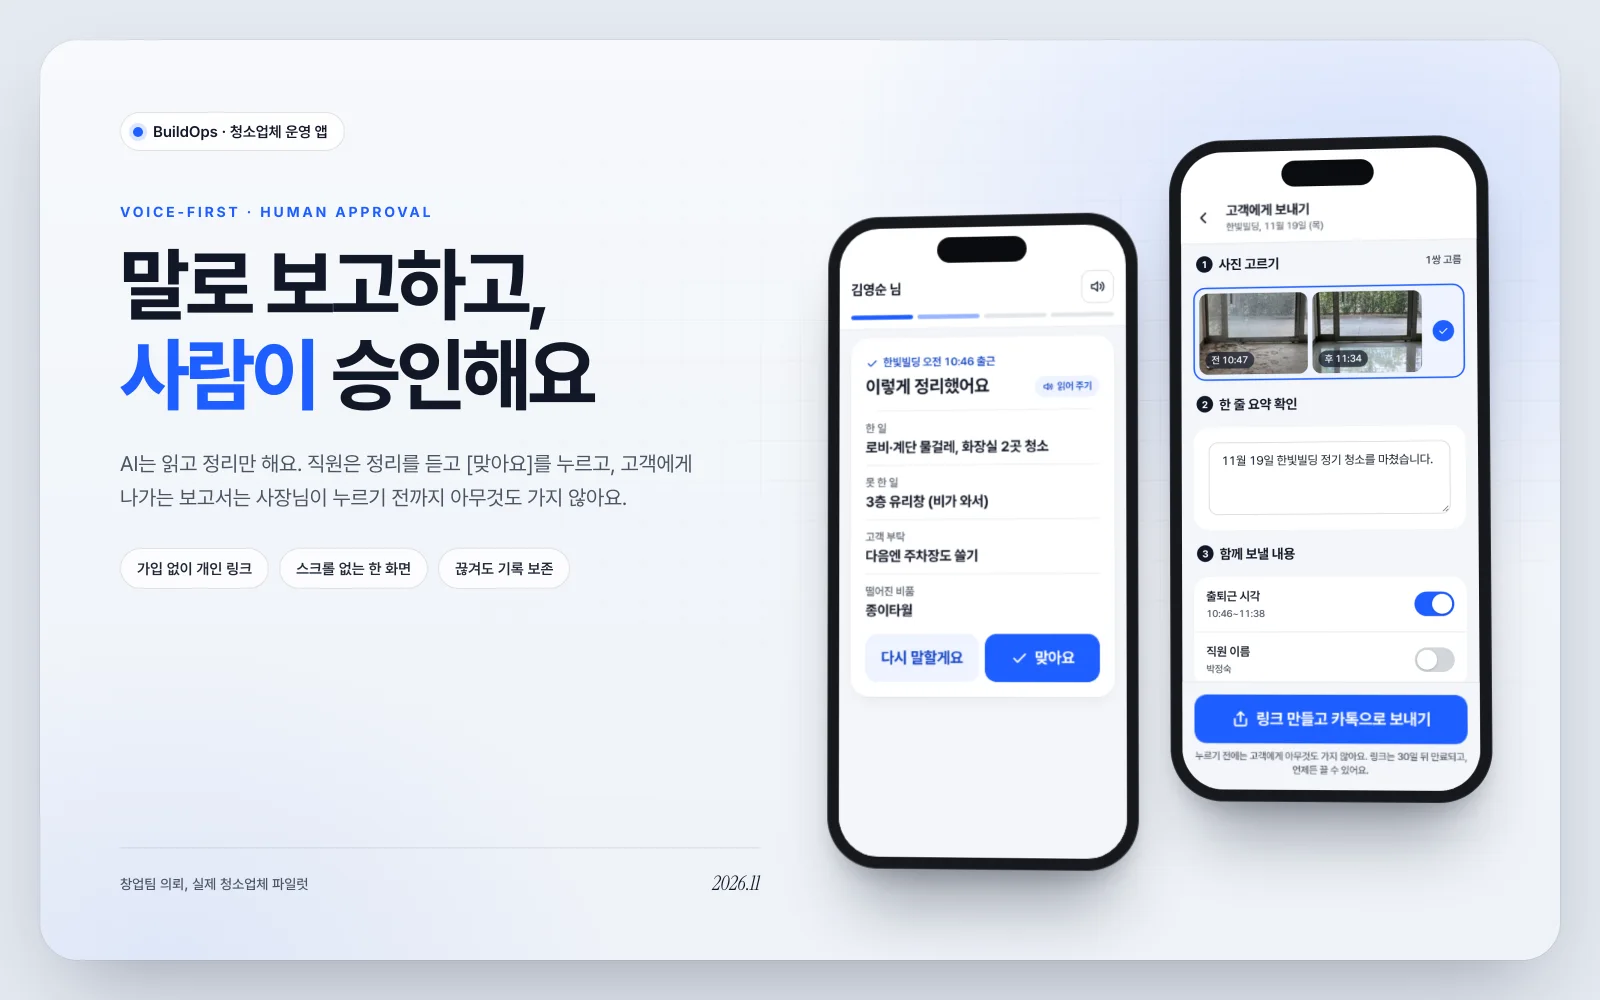
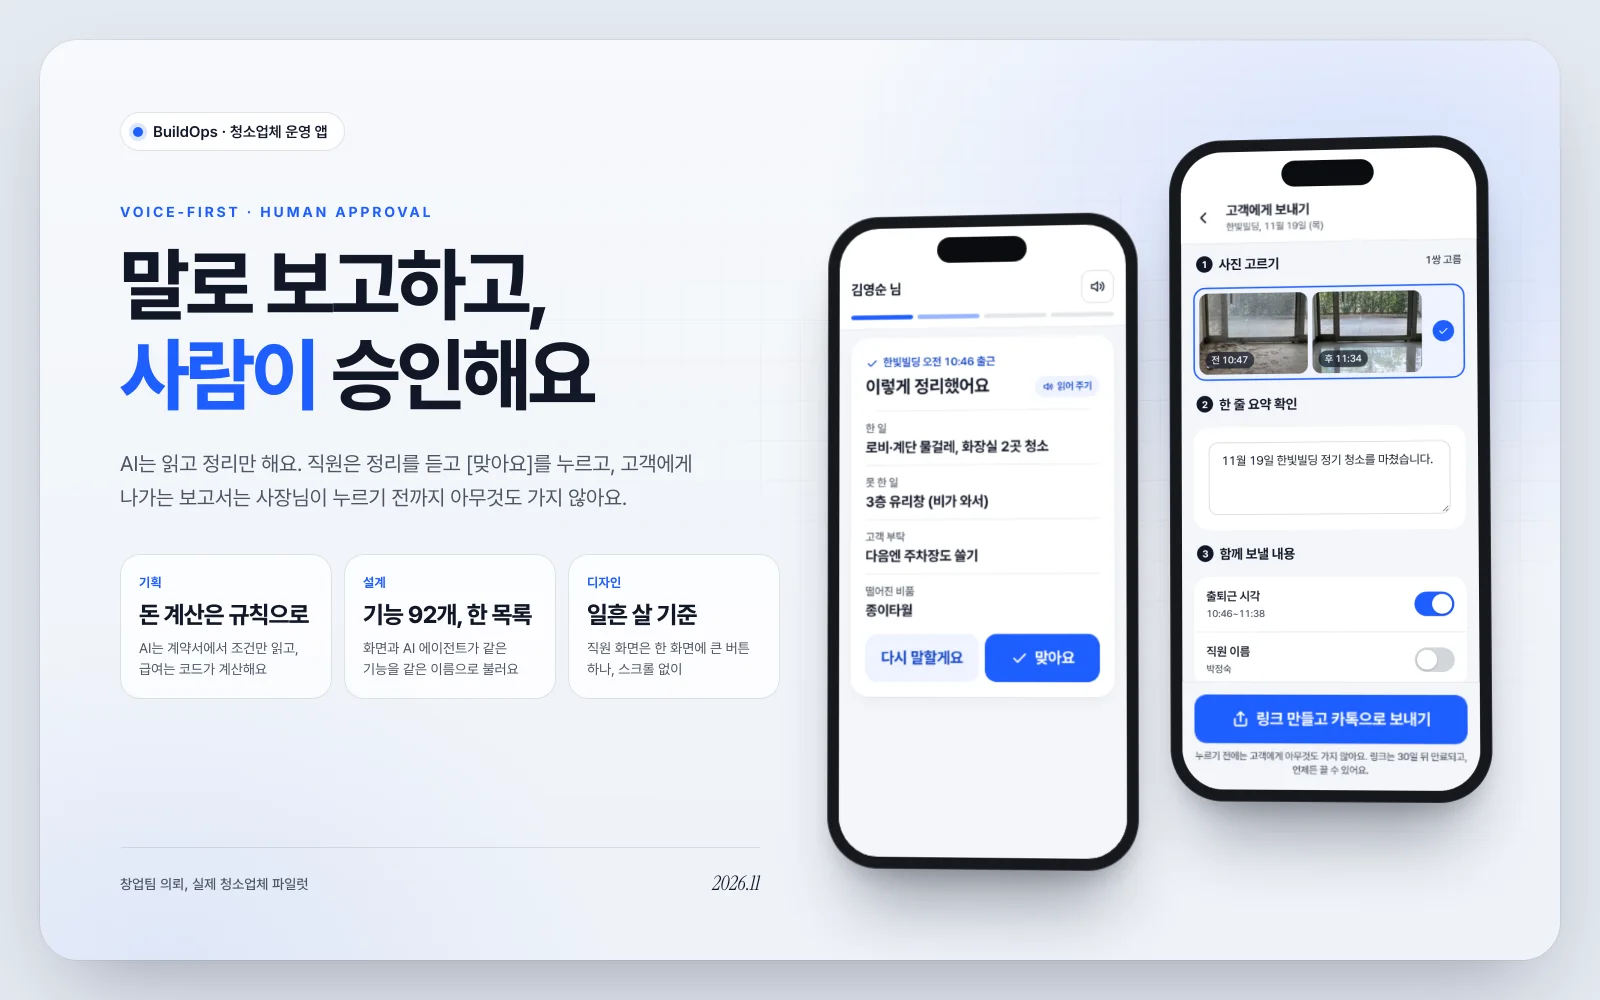
첫 화면 '하는 일'을 실제 작업 쇼케이스로 (#15)
* 첫 화면 '하는 일'을 실제 작업 쇼케이스로, 임팩트 순 네 분야로 다시 구성

* BuildOps 두 번째 쇼케이스 교체

---------

Changed region(s): [[0.1875, 0.558, 0.3438, 0.682], [0.0625, 0.558, 0.1875, 0.682], [0.375, 0.589, 0.4688, 0.682]]

diff --git a/index.html b/index.html
@@ -22,7 +22,7 @@
   <link rel="apple-touch-icon" href="/apple-touch-icon.png">
   <link rel="preconnect" href="https://cdn.jsdelivr.net" crossorigin>
   <link rel="stylesheet" href="https://cdn.jsdelivr.net/gh/orioncactus/pretendard@v1.3.9/dist/web/variable/pretendardvariable-dynamic-subset.css">
-  <link rel="stylesheet" href="/assets/css/home.css?v=9">
+  <link rel="stylesheet" href="/assets/css/home.css?v=10">
   <script>try{var t=localStorage.getItem('bibi:theme');if(t)document.documentElement.dataset.theme=t;}catch(e){}if(!matchMedia('(prefers-reduced-motion: reduce)').matches)document.documentElement.classList.add('motion');</script>
   <script type="application/ld+json">
   {"@context":"https://schema.org","@type":"ProfessionalService","name":"bibiis.ai","alternateName":"비비이즈","url":"https://bibiis.ai/","email":"hello@bibiis.ai","areaServed":"KR","description":"작은 매장과 팀의 반복 업무 자동화, 구독료 없는 출퇴근·정산, 창업팀 PoC·MVP 제작.","makesOffer":[
@@ -89,35 +89,48 @@
   <section class="ladder" id="ladder" data-src>
     <div class="wrap">
       <div class="head">
-        <h2>자동화 하나가<br>프로덕트가 되기까지</h2>
-        <p>처음부터 큰 걸 만들지 않아요. 쓰이는 걸 확인한 만큼만 키웁니다.</p>
+        <h2>매일 쓰이는 걸<br>직접 만들어요</h2>
+        <p>작게 시작해 쓰이는 만큼 키워요. 아래는 모두 실제로 만든 것들이에요.</p>
       </div>
-      <ol class="steps3">
-        <li class="step">
-          <span class="pill">1단계</span>
-          <h3>자동화</h3>
-          <p class="sub">이미 쓰는 도구에 붙이기</p>
-          <div class="vis vis-sheet" aria-hidden="true"><span class="sheet"><span class="r h"><b>이름</b><b>출근</b><b>퇴근</b></span><span class="r"><i></i><i></i><i></i></span><span class="r"><i></i><i></i><i></i></span><span class="r"><i></i><i></i><i></i></span></span><span class="done">정산 완료</span></div>
-          <ul><li>구글 시트와 메신저 알림(슬랙·텔레그램)</li><li>며칠이면 돌아가요</li><li>구독료 없음</li></ul>
-          <p class="case"><b>실제 사례</b>식당 앱 첫 버전. 매장 와이파이로 출퇴근을 확인하고 시트에서 월 정산까지.</p>
-        </li>
-        <li class="step">
-          <span class="pill">2단계</span>
-          <h3>전용 앱</h3>
-          <p class="sub">우리 가게·팀만의 화면</p>
-          <div class="vis vis-phones" aria-hidden="true"><span class="ph"><span class="go">출근</span><i></i></span><span class="ph owner"><span class="nt"><span class="d"></span>확인할 기록 1건</span><i></i><i></i></span></div>
-          <ul><li>직원 화면과 관리자 화면</li><li>기록 수정 이력과 권한</li><li>사람이 덜 누르게 설계</li></ul>
-          <p class="case"><b>실제 사례</b>식당 앱 새 버전. 얼굴만 누르면 출근, 사장님은 이상한 기록만 확인.</p>
-        </li>
-        <li class="step">
-          <span class="pill">3단계</span>
-          <h3>프로덕트</h3>
-          <p class="sub">여러 팀이 쓰는 서비스</p>
-          <div class="vis vis-app" aria-hidden="true"><span class="win"><span class="side"><i></i><i></i><i></i></span><span class="main"><b class="t">결재함</b><span class="row on"><span>휴가 신청</span><em>승인</em></span><span class="row"><i></i></span><span class="row"><i></i></span></span></span></div>
-          <ul><li>PRD·유저 플로우·화면 설계</li><li>로그인·결제·운영 도구</li><li>검증하고 덜어내며 키우기</li></ul>
-          <p class="case"><b>실제 사례</b>여러 법인이 매일 쓰는 근태·결재 플랫폼. 검증 후 다시 만든 PRIA.</p>
-        </li>
-      </ol>
+      <div class="cats">
+        <article class="cat cat-main t-blue">
+          <div class="cat-copy">
+            <span class="pill">사내 시스템</span>
+            <h3>여러 법인이 매일 쓰는 근태·결재를 처음부터</h3>
+            <p>외부 HR 서비스를 대체했어요. 규칙을 먼저 문서로 쓰고, 웹과 슬랙 봇이 그 규칙대로 판정해요.</p>
+            <ul class="cat-points"><li>정책 문서부터 쓰는 기획</li><li>웹 + 슬랙 봇 + 구글 워크스페이스</li><li>검증하고 덜어낸 뒤 다시 만들기</li></ul>
+            <div class="cat-links"><a href="/work/#attendance">사내 근태·결재 플랫폼 →</a><a href="/work/#pria">PRIA →</a></div>
+          </div>
+          <a class="cat-img" href="/work/#attendance"><img src="/assets/work/attendance/sc-01.webp" alt="정책을 먼저 쓰고 시스템이 판정하는 사내 근태·결재 플랫폼" width="1600" height="1000" loading="lazy"></a>
+        </article>
+        <article class="cat t-brand">
+          <a class="cat-img" href="/work/#restaurant"><img src="/assets/work/restaurant/sc-01.webp" alt="사장님은 말하고 맞아요만 누르는 식당 출퇴근 앱" width="1600" height="1000" loading="lazy"></a>
+          <div class="cat-copy">
+            <span class="pill">현장 앱</span>
+            <h3>직원은 누르거나 말하기만, 사장님은 확인만</h3>
+            <p>화면을 읽을 틈 없는 매장·현장에서도 기록이 맞게 남아요.</p>
+            <div class="cat-links"><a href="/work/#restaurant">식당 출퇴근 앱 →</a><a href="/work/#buildops">BuildOps →</a></div>
+          </div>
+        </article>
+        <article class="cat t-purple">
+          <a class="cat-img" href="/work/#say-it-back"><img src="/assets/work/say-it-back/sc-01.webp" alt="개념은 지도로, 영어는 내 말로. Say It Back" width="1600" height="1000" loading="lazy"></a>
+          <div class="cat-copy">
+            <span class="pill">AI 도구</span>
+            <h3>AI는 필요한 만큼만 부르는 도구</h3>
+            <p>링크 하나로 리스닝 연습지를, 개념 지도로 영어 설명 연습을. 끄면 과금 호출이 없어요.</p>
+            <div class="cat-links"><a href="/work/#listenote">listenote →</a><a href="/work/#say-it-back">Say It Back →</a></div>
+          </div>
+        </article>
+        <article class="cat t-green">
+          <div class="vis vis-sheet cat-vis" aria-hidden="true"><span class="sheet"><span class="r h"><b>이름</b><b>출근</b><b>퇴근</b></span><span class="r"><i></i><i></i><i></i></span><span class="r"><i></i><i></i><i></i></span><span class="r"><i></i><i></i><i></i></span></span><span class="done">정산 완료</span></div>
+          <div class="cat-copy">
+            <span class="pill">업무 자동화</span>
+            <h3>이미 쓰는 시트와 메신저에 붙여요</h3>
+            <p>서버비도 구독료도 없이, 며칠이면 돌아가요.</p>
+            <div class="cat-links"><a href="/work/#store-checkin">직영점 출퇴근 웹앱 →</a></div>
+          </div>
+        </article>
+      </div>
       <div class="craft">
         <h3>프로덕트로 갈 때는 이것까지 같이 만들어요</h3>
         <ul>

diff --git a/assets/css/home.css b/assets/css/home.css
@@ -113,6 +113,26 @@ section{padding:104px 0}
 .more{display:inline-block;margin-top:10px;font-weight:600;text-decoration:none;border-bottom:1.5px solid currentColor}
 
 /* 자동화 → 프로덕트 사다리 */
+.cats{display:grid;grid-template-columns:repeat(3,minmax(0,1fr));gap:20px}
+.cat{border-radius:24px;overflow:hidden;display:flex;flex-direction:column;border:1px solid var(--line)}
+.cat-main{grid-column:1/-1;display:grid;grid-template-columns:minmax(0,5fr) minmax(0,7fr);align-items:center}
+.cat-copy{padding:26px 26px 28px;display:flex;flex-direction:column;gap:10px;flex:1}
+.cat-main .cat-copy{padding:40px 8px 40px 40px}
+.cat .pill{align-self:flex-start;background:var(--card)}
+.cat h3{margin:2px 0 0;font-size:21px;line-height:1.35;letter-spacing:-.03em;word-break:keep-all}
+.cat-main h3{font-size:clamp(26px,2.6vw,34px);line-height:1.3}
+.cat p{margin:0;color:var(--ink-2);font-size:15px;line-height:1.6;word-break:keep-all}
+.cat-points{list-style:none;margin:4px 0 0;padding:0;display:flex;flex-direction:column;gap:6px;font-size:15px}
+.cat-points li::before{content:"✓";color:var(--brand);font-weight:700;margin-right:8px}
+.cat-links{margin-top:auto;padding-top:8px;display:flex;flex-wrap:wrap;gap:8px}
+.cat-links a{font-size:14px;font-weight:600;color:var(--ink);text-decoration:none;padding:7px 12px;border-radius:999px;background:var(--card);border:1px solid var(--line)}
+.cat-links a:hover{border-color:var(--ink-2)}
+.cat-img{display:block;padding:18px 18px 0}
+.cat-img img{display:block;width:100%;height:auto;border-radius:14px;box-shadow:var(--shadow);transition:transform .2s ease}
+.cat-img:hover img{transform:translateY(-3px)}
+.cat-main .cat-img{padding:28px 28px 28px 8px}
+.cat-vis{margin:18px 18px 0;height:auto;aspect-ratio:16/10}
+.cat.t-brand{background:var(--t-2)}
 .steps3{list-style:none;margin:0;padding:0;display:grid;grid-template-columns:repeat(3,1fr);gap:20px;position:relative}
 .step{border-radius:24px;padding:28px;display:flex;flex-direction:column;gap:10px}
 .step:nth-child(1){background:var(--t-1)}.step:nth-child(2){background:var(--t-2)}.step:nth-child(3){background:var(--t-3)}
@@ -281,7 +301,10 @@ html.view-source [data-src] .src{display:block}
 @media (max-width:1000px){
   .scene .wrap,.feature{grid-template-columns:1fr;gap:36px}
   .chat{max-width:380px;margin:0 auto;width:100%}
-  .steps3,.plans,.works{grid-template-columns:1fr}
+  .steps3,.plans,.works,.cats{grid-template-columns:1fr}
+  .cat-main{grid-template-columns:1fr}
+  .cat-main .cat-copy{padding:26px 26px 8px}
+  .cat-main .cat-img{padding:18px 18px 0;order:-1}
   .craft ul{grid-template-columns:repeat(2,1fr)}
   .steps4,.tiles{grid-template-columns:1fr 1fr}
   section{padding:80px 0}
